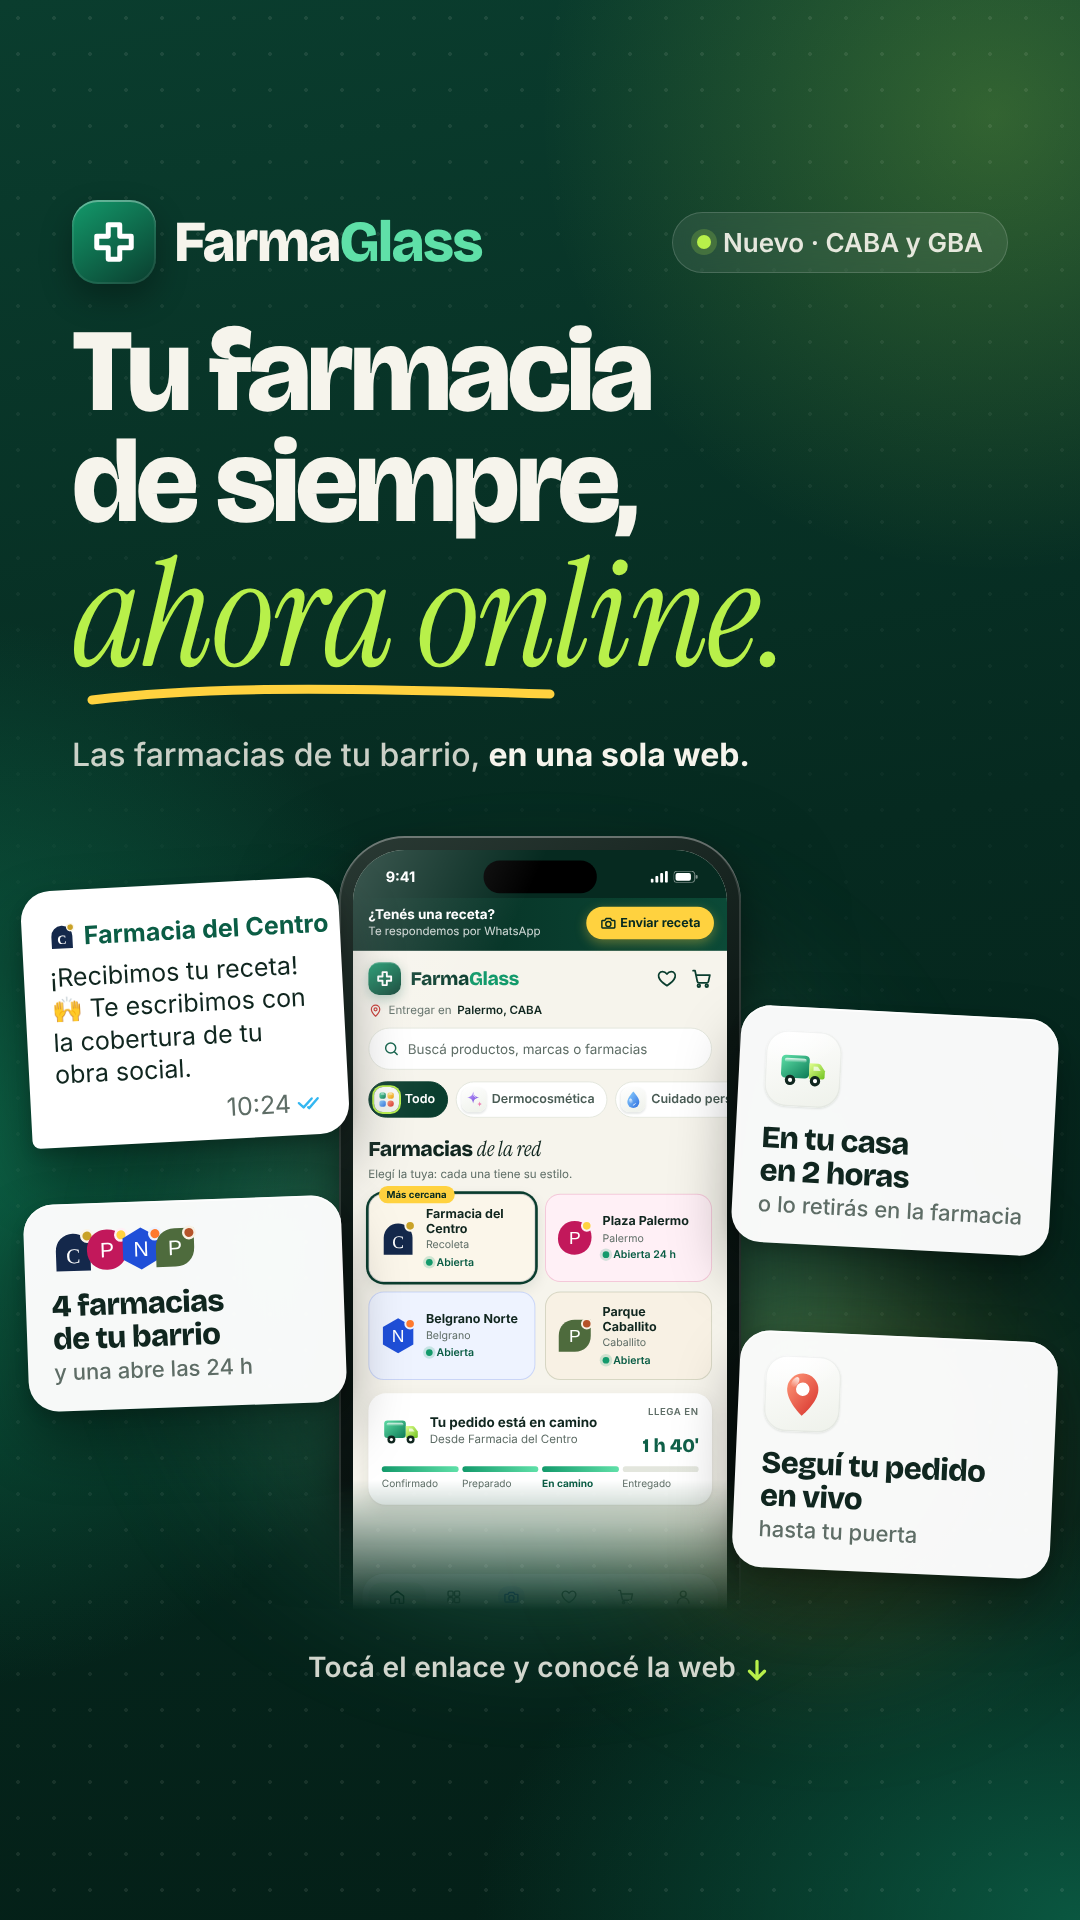
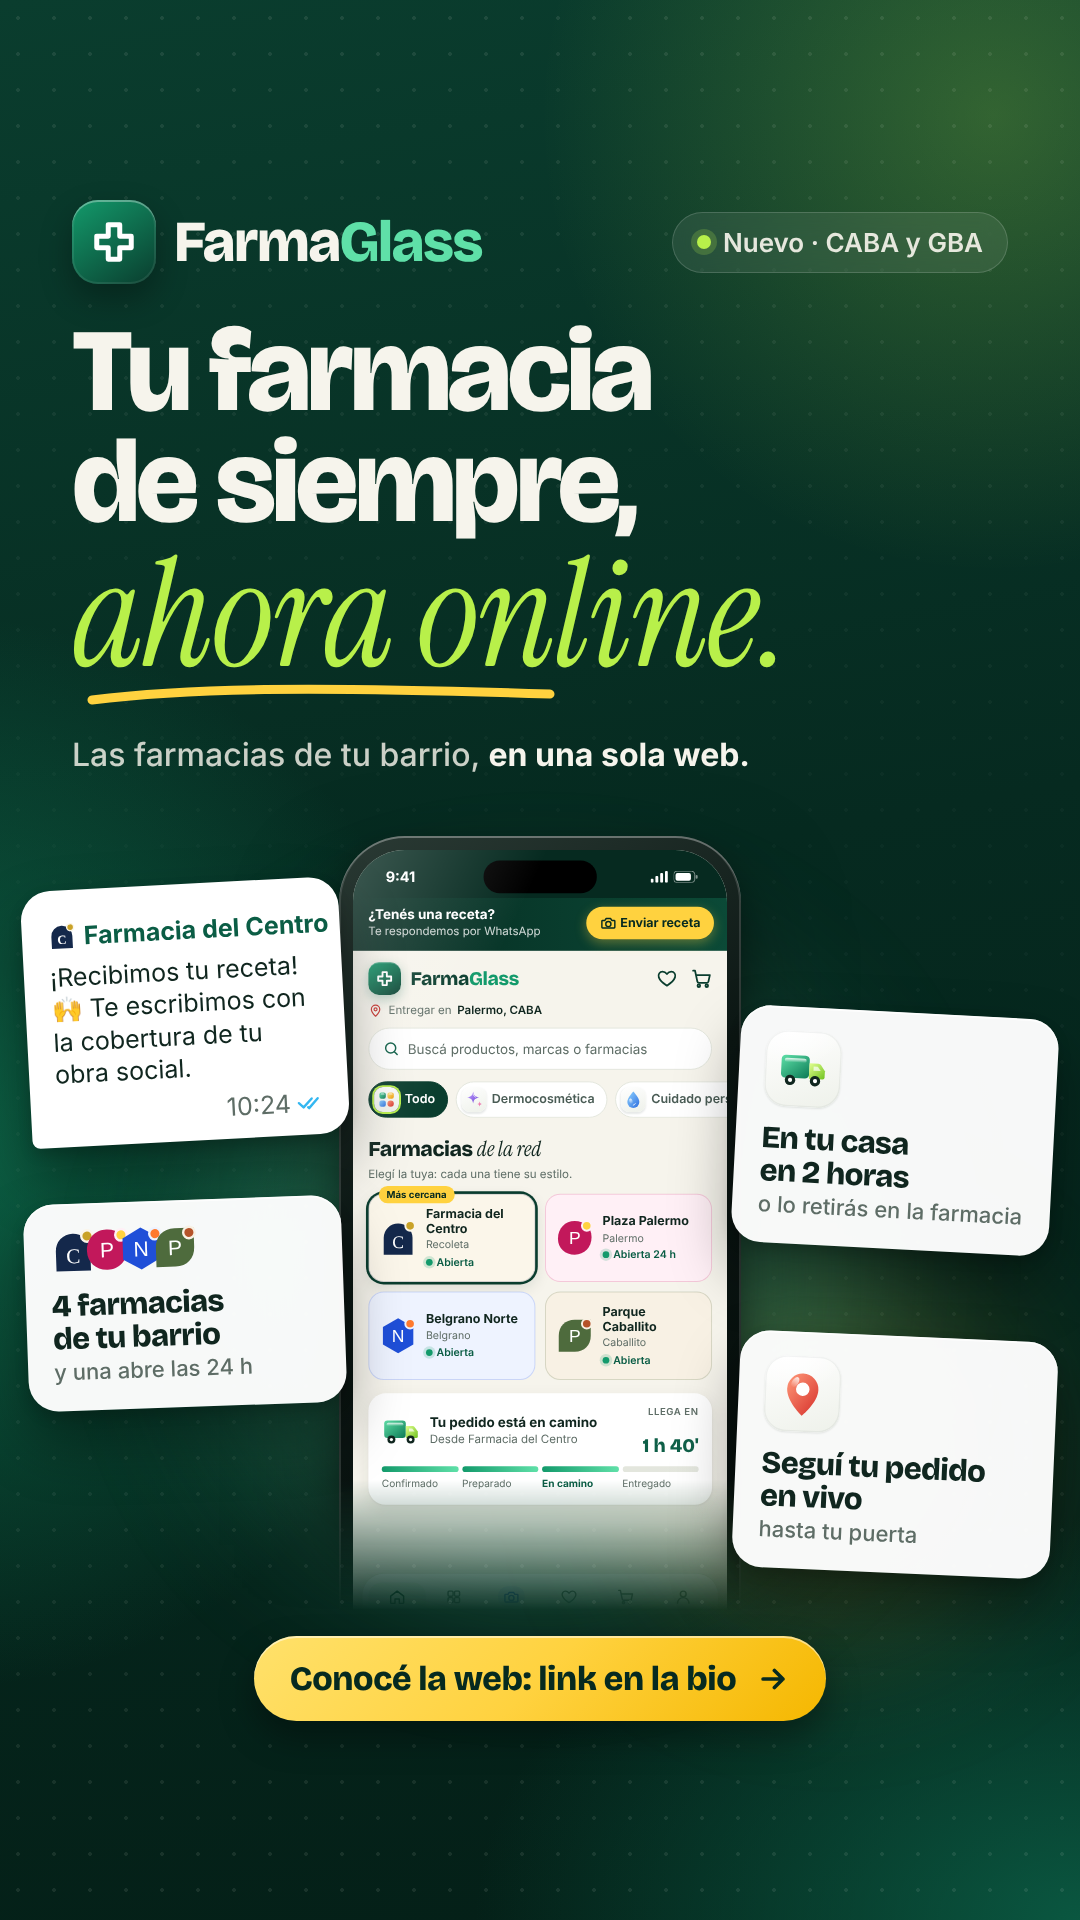
Presentación: JPG para Instagram y llamado a "link en la bio" en la story
Instagram publica por API solo imágenes JPG, así que el exportador genera
también story.jpg y post.jpg. La story cierra con "Conocé la web: link en la
bio", como la publicación, porque por API no se puede agregar el sticker de
enlace.

Claude-Session: https://claude.ai/code/session_01TuYYD3DCha6hdMMwJaXERz

Changed region(s): [[0.2139, 0.8438, 0.7639, 0.9062]]

diff --git a/marketing/presentacion/exportar.js b/marketing/presentacion/exportar.js
@@ -1,6 +1,6 @@
 // FarmaGlass · exporta la presentación de Instagram (presentacion.html) a PNG.
 //
-//   node marketing/presentacion/exportar.js   → story.png (1080 × 1920) y post.png (1080 × 1350)
+//   node marketing/presentacion/exportar.js   → story.png/.jpg (1080 × 1920) y post.png/.jpg (1080 × 1350)
 //
 // Necesita Playwright (npm i -D playwright).
 
@@ -19,7 +19,10 @@ const DIR = __dirname;
     await page.evaluate(() => document.fonts.ready);
     for (const [id, file] of [['story', 'story.png'], ['post', 'post.png']]) {
         await page.locator('#' + id).screenshot({ path: path.join(DIR, file) });
-        console.log(file + ' listo');
+        // Instagram publica por API solo imágenes JPG: se exporta también en ese formato
+        const jpg = file.replace('.png', '.jpg');
+        await page.locator('#' + id).screenshot({ path: path.join(DIR, jpg), type: 'jpeg', quality: 95 });
+        console.log(file + ' y ' + jpg + ' listos');
     }
     await browser.close();
 })();

diff --git a/marketing/presentacion/presentacion.html b/marketing/presentacion/presentacion.html
@@ -253,7 +253,7 @@
         #story .f-2h   { right: 26px; top: 1012px; transform: rotate(3deg); }
         #story .f-net  { left: 26px;  top: 1200px; transform: rotate(-2deg); }
         #story .f-live { right: 26px; top: 1336px; transform: rotate(2.5deg); }
-        #story .cta-hint { top: 1650px; }
+        #story .cta-hint { top: 1636px; }
 
         /* ================= PUBLICACIÓN 1080 × 1350 ================= */
         #post { height: 1350px; }
@@ -447,7 +447,7 @@
             <span><b>Seguí tu pedido<br>en vivo</b><small>hasta tu puerta</small></span>
         </div>
 
-        <p class="cta-hint">Tocá el enlace y conocé la web<svg viewBox="0 0 24 24" aria-hidden="true"><use href="#i-down"/></svg></p>
+        <p class="cta-hint"><span class="cta-btn">Conocé la web: link en la bio<svg viewBox="0 0 24 24" aria-hidden="true"><use href="#i-arrow"/></svg></span></p>
     </article>
     </div>
 

diff --git a/README.md b/README.md
@@ -168,10 +168,11 @@ la estrella es la web, dibujada en un celular con las farmacias de la red, el bo
 
 | Archivo | Qué es |
 | --- | --- |
-| `story.png` | Story de 1080 × 1920: "Tu farmacia de siempre, ahora online." con el celular y cuatro beneficios a los costados (receta por WhatsApp, envío en 2 horas o retiro, 4 farmacias de tu barrio y seguimiento en vivo) |
-| `post.png` | Publicación de 1080 × 1350 (4:5): "Sin filas. Sin vueltas. Tu farmacia, online." con los 3 pasos (elegí tu farmacia, pedí o mandá tu receta, recibilo en 2 horas) y "Link en la bio" |
+| `story.png` · `story.jpg` | Story de 1080 × 1920: "Tu farmacia de siempre, ahora online." con el celular y cuatro beneficios a los costados (receta por WhatsApp, envío en 2 horas o retiro, 4 farmacias de tu barrio y seguimiento en vivo) |
+| `post.png` · `post.jpg` | Publicación de 1080 × 1350 (4:5): "Sin filas. Sin vueltas. Tu farmacia, online." con los 3 pasos (elegí tu farmacia, pedí o mandá tu receta, recibilo en 2 horas) y "Link en la bio" |
 | `presentacion.html` | El diseño editable de las dos piezas. Abierto en el navegador las muestra lado a lado |
-| `exportar.js` | Vuelve a generar los PNG: `node marketing/presentacion/exportar.js`. Necesita Playwright |
+| `exportar.js` | Vuelve a generar los PNG y los JPG: `node marketing/presentacion/exportar.js`. Necesita Playwright. Los JPG son los que se publican: Instagram, por API, solo acepta JPG |
 
 - La web del celular es una sola plantilla (`#phone-ui`) que se copia en las dos piezas: si cambia la web, se cambia una vez.
-- En la story, debajo de "Tocá el enlace y conocé la web", queda el lugar para el sticker de enlace, arriba de la barra de respuesta.
+- Las dos piezas cierran con "link en la bio", porque al publicar por API (Metricool) no se puede agregar el sticker de enlace a la story.
+  El perfil de Instagram tiene que tener el enlace a la web en la bio.
